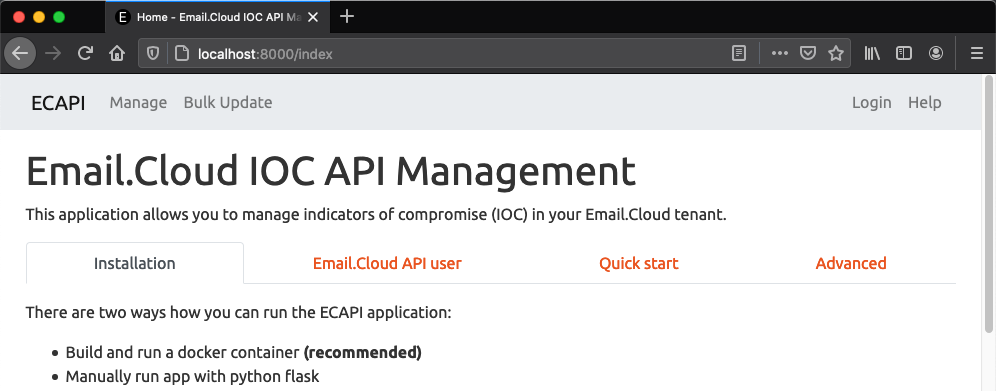
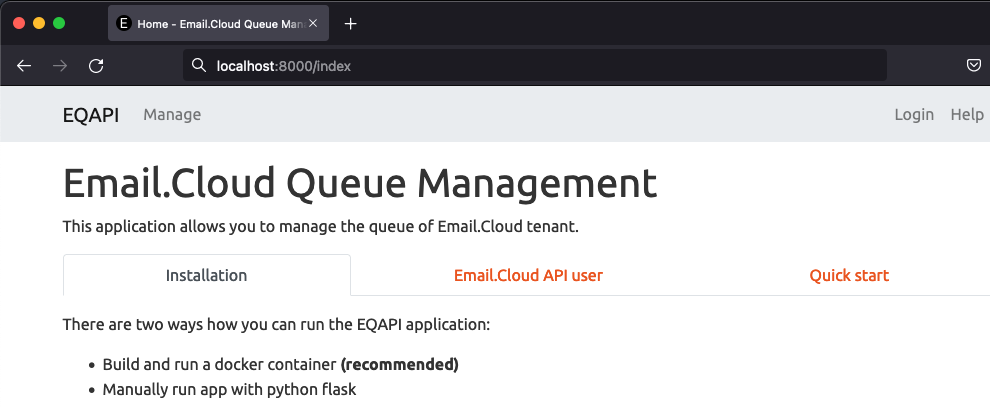
v0.9

diff --git a/app/templates/queue.html b/app/templates/queue.html
@@ -3,13 +3,16 @@
 
 {% block app_content %}
     <h1>Queue Management</h1>
-    <p>This application monitors the Email.Cloud queue.</p>
+    <p>This application monitors the Email.Cloud queue. Time is in UTC.</p>
     <div class="row">
         <div class="col-9">
             <form class="form-inline">
                 <div class="form-group mb-2">
                     <select id="domainname">
                         <option value="global">Global</option>
+                        {% for domain in domains %}
+                        <option value="{{ domain.domainname.lower() }}">{{ domain.domainname }}</option>
+                        {% endfor %}
                     </select>
                 </div>
                 <div class="form-group mx-sm-1 mb-2">
@@ -19,7 +22,7 @@
                     <input id="enddate" width="234" />
                 </div>
                 <div class="form-group mx-sm-1 mb-2">
-                    <button type="button" id="updatebutton" class="btn btn-primary" onclick="javascript:QueueChart('202101010000','202201010000', '')">Update</button>
+                    <button type="button" id="updatebutton" class="btn btn-primary" onclick="javascript:updateChart()">Update</button>
                 </div>
             </form>
         </div>
@@ -70,7 +73,14 @@
     var ctx = document.getElementById("queueChart").getContext("2d");
     var QChart = new Chart(ctx)
 
-    QueueChart('202101010000','202201010000', '')
+    function fmtapidate(date) {
+        d = new Date().getFullYear();
+        d += ("0" + (date.getMonth() + 1)).slice(-2)
+        d += ("0" + date.getDate()).slice(-2)
+        d += ("0" + date.getHours()).slice(-2)
+        d += ("0" + date.getMinutes()).slice(-2)
+        return d
+    }
 
     function QueueChart(start_date, end_date, domain) {
         var data = data || {};
@@ -112,17 +122,55 @@
         });
     }
 
+    function updateChart() {
+        startdate = new Date(Date.parse(document.getElementById('startdate').value))
+        enddate = new Date(Date.parse(document.getElementById('enddate').value))
+        domain = ''
+
+        if (document.getElementById('domainname').value != 'global') {
+            domain = document.getElementById('domainname').value
+        }
+
+        QueueChart(fmtapidate(startdate),fmtapidate(enddate), domain)
+    }
+
     $(document).ready(function() {
+        var date = new Date();
+        var startdate = new Date(date.getUTCFullYear(), date.getUTCMonth(), date.getUTCDate(), 
+                                 date.getUTCHours() -1, date.getUTCMinutes(), date.getUTCSeconds());
+        var enddate = new Date(date.getUTCFullYear(), date.getUTCMonth(), date.getUTCDate(), 
+                                 date.getUTCHours(), date.getUTCMinutes(), date.getUTCSeconds());
+
+        function fmtdate(date) {
+            d = new Date().getFullYear();
+            d += '-'
+            d += ("0" + (date.getMonth() + 1)).slice(-2)
+            d += '-'
+            d += ("0" + date.getDate()).slice(-2)
+            d += ' '
+            d += ("0" + date.getHours()).slice(-2)
+            d += ':'
+            d += ("0" + date.getMinutes()).slice(-2)
+            return d
+        }
+
         $('#startdate').datetimepicker({
+            format: 'yyyy-mm-dd HH:MM',
             uiLibrary: 'bootstrap4',
             modal: false,
-            footer: true
+            footer: true,
+            value: fmtdate(startdate)
         });
         $('#enddate').datetimepicker({
+            format: 'yyyy-mm-dd HH:MM',
             uiLibrary: 'bootstrap4',
             modal: false,
-            footer: true
+            footer: true,
+            value: fmtdate(enddate)
         });
+
+        QueueChart(fmtapidate(startdate),fmtapidate(enddate), '')
+
     } );
 
     </script>

diff --git a/app/templates/index.html b/app/templates/index.html
@@ -197,39 +197,13 @@ cc3abdbb4297   eqapi     "./boot.sh"   19 seconds ago   Up 18 seconds   0.0.0.0:
                     </tr>
                     <tr>
                         <th scope="row">4</th>
-                        <td><p>Click on the <code>Use standard role</code> button.</p>
-                            <p>Select <code>Service</code> and select the <code>TODO: SELECT CORRECT SERVICE</code> and click on the <code>Add Role</code> button.</p>
+                        <td><p>Click on the <code>Create custom role</code> button.</p>
+                            <p>Select <code>View Statistics</code> as Permission and select the <code>Mail Platform</code> for all domains and click on the <code>Append Role</code> button.</p>
                             <p>Click on the <code>Save and Exit</code> button to store this new user with these permissions.</p>
                         </td>
                     </tr>
                 </tbody>
             </table>
-
-            <p>Make sure the Datafeeds service is enabled. TODO: Check if this is needed
-            </p>
-                <table class="table table-sm">
-                  <thead>
-                      <tr>
-                          <th scope="col">#</th>
-                          <th scope="col">Description</th>
-                      </tr>
-                  </thead>
-                  <tbody>
-                      <tr>
-                          <th scope="row">1</th>
-                          <td><p>Log in with an Administrator at <a href="https://clients.messagelabs.com">https://clients.messagelabs.com</a>.</p>
-                          </td>
-                      </tr>
-                      <tr>
-                          <th scope="row">2</th>
-                          <td><p>Hover over the services icon in the menu and select <code>Email Threat Detection and Response -> IOC Blacklist settings</code>.</p></td>
-                      </tr>
-                      <tr>
-                          <th scope="row">3</th>
-                          <td><p>Make sure the service is enabled and all fields are populated.</p></td>
-                      </tr>
-                  </tbody>
-              </table>
         </div>
         <div class="tab-pane fade" id="nav-usage" role="tabpanel" aria-labelledby="nav-usage-tab">
             <table class="table table-sm">
@@ -263,7 +237,7 @@ cc3abdbb4297   eqapi     "./boot.sh"   19 seconds ago   Up 18 seconds   0.0.0.0:
                     </tr>
                 </tbody>
             </table>
-            <p>Additional information can be found in the API Guide (<a href="TODO: Correct URL">PDF</a>).</p>
+            <p>Additional information can be found in the API Guide (<a href="https://techdocs.broadcom.com/content/dam/broadcom/techdocs/symantec-security-software/email-security/email-security-cloud/generated-pdfs/email_queue_api_guide.pdf">PDF</a>).</p>
         </div>
     </div>
 {% endblock %}

diff --git a/app/templates/settings.html b/app/templates/settings.html
@@ -7,7 +7,11 @@
         <div class="col-md-4">
             {{ wtf.render_form(form) }}
         </div>
-        {% if last_error is not none %}
+        <div class="col-md-4">
+            <div>Next query to queue API:</div>
+            <div>{{ job }}</div>
+        </div>
+        {% if last_error != "" %}
         <div class="col-md-4">
             <div>Last error from background task:</div>
             <div>{{ last_error }}</div>

diff --git a/app/main/routes.py b/app/main/routes.py
@@ -3,11 +3,12 @@ from flask import (render_template, flash, redirect, url_for, request,
 from flask_login import current_user, login_required
 from datetime import datetime
 from sqlalchemy.sql.elements import and_
-from app import db
+from app import db, scheduler
+from app.jobs import AddUpdateJob
 from app.models import DomainQueue, GlobalQueue, Domain
 from app.main.forms import EditProfileForm, SettingsForm
 from app.settings import getSetting, saveSetting
-from app.api import testConnection, queryQueue
+from app.api import testConnection
 from app.main import bp
 
 
@@ -40,8 +41,8 @@ def edit_profile():
 @bp.route('/queue', methods=['GET'])
 @login_required
 def queue():
-    queryQueue()
-    return render_template('queue.html', title='Queue')
+    domains = Domain.query.all()
+    return render_template('queue.html', title='Queue', domains=domains)
 
 
 @bp.route('/data/<from_date>/<to_date>',
@@ -74,7 +75,8 @@ def data(from_date, to_date, domain):
                 GlobalQueue.datetime.between(startdate, enddate)
             ).all()
         for entry in qdata:
-            rdata['labels'].append(entry.datetime)
+            rdata['labels'].append(datetime.strftime(
+                entry.datetime, "%Y-%m-%d %H:%M:%S"))
             rdata['data']['TotalMessagesInbound'].append(
                 entry.TotalMessagesInbound)
             rdata['data']['TotalMessagesOutbound'].append(
@@ -117,7 +119,8 @@ def data(from_date, to_date, domain):
                      Domain.domainname == domain)
             ).all()
         for entry in qdata:
-            rdata['labels'].append(entry.datetime)
+            rdata['labels'].append(datetime.strftime(
+                entry.datetime, "%Y-%m-%d %H:%M:%S"))
             rdata['data']['ReceiveQueueCountInbound'].append(
                 entry.ReceiveQueueCountInbound)
             rdata['data']['ReceiveQueueCountOutbound'].append(
@@ -149,19 +152,34 @@ def data(from_date, to_date, domain):
 @login_required
 def settings():
     form = SettingsForm()
+    job = scheduler.get_job('update_queue')
     if form.validate_on_submit():
-        result = testConnection(form.api_username.data, form.api_password.data)
-        if not result['status']:
-            flash(result['message'], 'danger')
-            return render_template('settings.html', title='Settings',
-                                   form=form)
-        saveSetting('api_username', form.api_username.data)
-        saveSetting('api_password', form.api_password.data)
-        flash('Connection to API successful, credentials saved', 'success')
+        saveSetting('update_queue_interval', form.interval.data)
+        saveSetting('disable_registration', form.disable_registration.data)
+
+        if (form.api_username.data != '' and form.api_password.data != ''):
+            result = testConnection(form.api_username.data,
+                                    form.api_password.data)
+            if not result['status']:
+                flash(result['message'], 'danger')
+                return render_template('settings.html', title='Settings',
+                                       form=form)
+            saveSetting('api_username', form.api_username.data)
+            saveSetting('api_password', form.api_password.data)
+            flash('Connection to API successful, settings saved', 'success')
+        else:
+            flash('Settings has been saved', 'success')
+
+        AddUpdateJob()
         return redirect(url_for('main.settings'))
     elif request.method == 'GET':
         form.api_username.data = getSetting('api_username')
         form.api_password.data = getSetting('api_password')
+        form.interval.data = getSetting('update_queue_interval', '300')
+        form.disable_registration.data = int(getSetting('disable_registration',
+                                                        '0'))
 
     return render_template('settings.html', title='Settings', form=form,
-                           last_error=getSetting('last_error'))
+                           last_error=getSetting('last_error'),
+                           job=datetime.strftime(
+                                job.next_run_time, "%Y-%m-%d %H:%M:%S"))

diff --git a/app/main/forms.py b/app/main/forms.py
@@ -1,7 +1,7 @@
 from flask_wtf import FlaskForm
-from wtforms import (StringField, SubmitField)
+from wtforms import (StringField, SubmitField, IntegerField, BooleanField)
 from wtforms.fields.simple import PasswordField
-from wtforms.validators import ValidationError, DataRequired
+from wtforms.validators import ValidationError, DataRequired, NumberRange
 from app.models import User
 
 
@@ -22,5 +22,12 @@ class EditProfileForm(FlaskForm):
 
 class SettingsForm(FlaskForm):
     api_username = StringField('API Username', validators=[DataRequired()])
-    api_password = PasswordField('API Password', validators=[DataRequired()])
+    api_password = PasswordField('API Password')
+    interval = IntegerField('API Query interval (seconds)', validators=[
+        DataRequired(),
+        NumberRange(min=10,
+                    max=3600,
+                    message='Seconds must be between %(min)s and %(max)s')
+        ], default=300)
+    disable_registration = BooleanField('Disable user registration')
     submit = SubmitField('Save')

diff --git a/app/jobs.py b/app/jobs.py
@@ -2,16 +2,19 @@ from app import scheduler
 from app.api import queryQueue
 from app.settings import getSetting, saveSetting
 from datetime import datetime
+from flask import current_app
 
 
 def updateQueue():
     with scheduler.app.app_context():
+        scheduler.app.logger.info('running job update_queue')
         utcdatestr = datetime.utcnow().strftime('%Y-%m-%d %H:%M:%S.%f')
 
         if (getSetting('api_username') == '' or
            getSetting('api_password') == ''):
             saveSetting('last_error',
                         f"{utcdatestr}: No username or password set")
+            scheduler.app.logger.info('No username or password set')
             return
 
         saveSetting('last_queue_update', utcdatestr)
@@ -34,3 +37,5 @@ def AddUpdateJob():
         name="Update queue from API",
         replace_existing=True
     )
+
+    current_app.logger.info('Added job update_queue to scheduler')

diff --git a/app/auth/routes.py b/app/auth/routes.py
@@ -6,6 +6,7 @@ from app.auth import bp
 from app.auth.forms import LoginForm, RegistrationForm, \
     ResetPasswordRequestForm, ResetPasswordForm
 from app.models import User
+from app.settings import getSetting
 from app.auth.email import send_password_reset_email
 
 
@@ -38,6 +39,11 @@ def register():
     if current_user.is_authenticated:
         return redirect(url_for('main.index'))
     form = RegistrationForm()
+
+    if getSetting('disable_registration', '0') == '1':
+        flash('Registration of new users has been disabled.', 'warning')
+        return redirect(url_for('main.index'))
+
     if form.validate_on_submit():
         user = User(username=form.username.data,
                     email=form.email.data)

diff --git a/app/settings.py b/app/settings.py
@@ -2,9 +2,11 @@ from app import db
 from app.models import Setting
 
 
-def getSetting(name: str) -> str:
+def getSetting(name: str, default: str = "") -> str:
     value = Setting.query.filter_by(name=name).first()
-    return value
+    if value is None:
+        value = default
+    return str(value)
 
 
 def saveSetting(name: str, value: str) -> bool:
